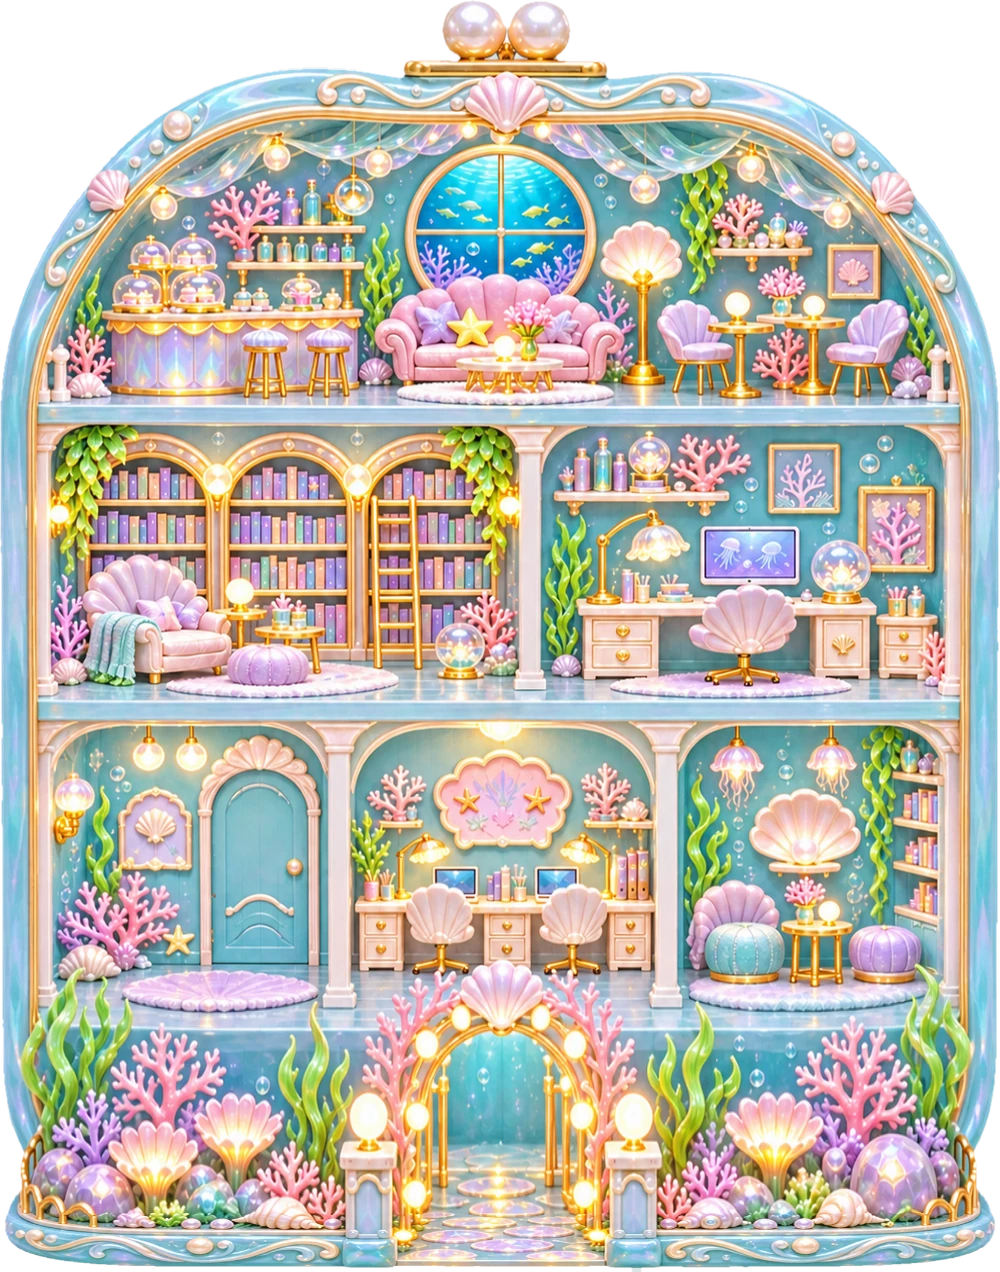
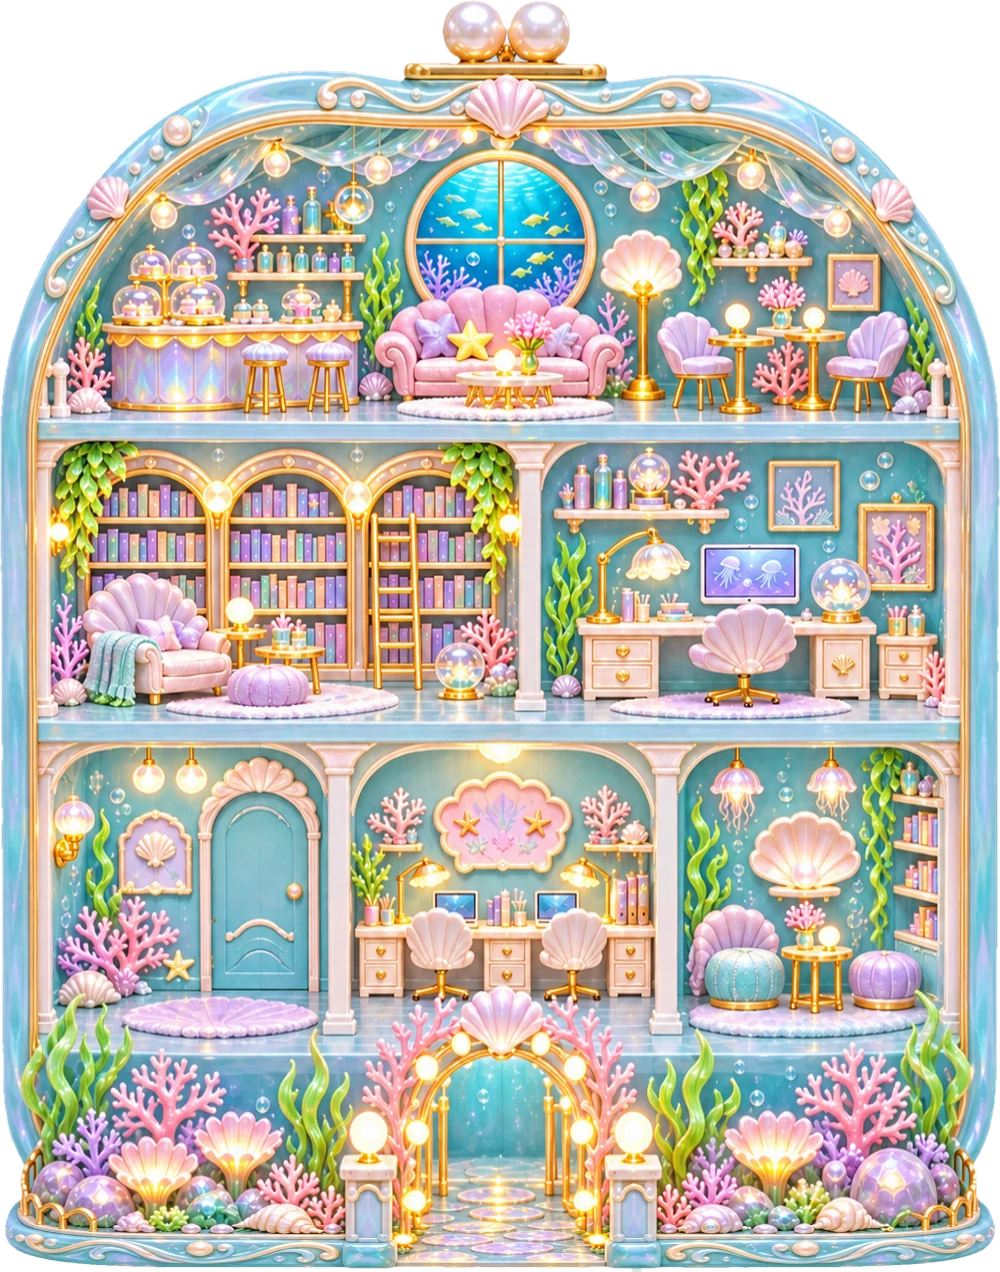
나무·바다 하우스: 카펫 높이를 기본 하우스 기준으로 층마다 다시 맞춤
Claude-Session: https://claude.ai/code/session_011wWXPaiuu8PZPFdYFKdKKY

diff --git a/tools/process_assets.py b/tools/process_assets.py
@@ -154,12 +154,32 @@ def align_floors(img, shifts, out_h):
     return Image.fromarray(np.clip(out, 0, 255).astype(np.uint8), 'RGBA')
 
 
-# 라이트 하우스 바꿔 입기(나무·바다): 층 바닥 높이를 기본 라이트 하우스(바닥 y 408/690/1002/1212, 높이 1272)와 똑같이 맞춰요
-# (출력 y, 원본 y를 1000폭 기준으로 잰 값의 차이) — 그림마다 층 높이가 달라서 따로 둬요
-SKIN_FLOOR_SHIFT = {
+# 라이트 하우스 바꿔 입기(나무·바다): 카펫(아바타가 서는 바닥)의 아래쪽 끝이 기본 하우스와 같은 높이에 오게 늘이고 줄여요.
+# 기본 하우스의 카펫 아래 끝: 다락 418 · 2층 718 · 1층 1037 (1000폭, 높이 1272 기준)
+_RUG_Y = (418, 718, 1037)
+# 처음 맞춤(층 바닥 높이)과, 그 결과에서 카펫 끝을 기본 하우스에 맞추려고 더 움직여야 하는 만큼 (출력에서 결과 그림 y까지의 차이)
+_OLD_SHIFT = {
     'wood': [(0, 0), (408, 9), (690, 14), (1002, -17), (1212, -62), (1272, -22)],
     'sea': [(0, 0), (408, -11), (690, -8), (1002, -17), (1212, -62), (1272, -22)],
 }
+_RUG_MOVE = {'wood': (-21, -28, -17), 'sea': (-16, -21, -27)}
+
+
+def _skin_shift(key):
+    old = _OLD_SHIFT[key]
+    oy = [p[0] for p in old]; os_ = [p[1] for p in old]
+    pts = [(0, 0)] + list(zip(_RUG_Y, _RUG_MOVE[key])) + [(1272, 0)]
+    xs = [p[0] for p in pts]; ds = [p[1] for p in pts]
+    out = []
+    for y in range(0, 1273, 24):
+        cur = y + float(np.interp(y, xs, ds))
+        out.append((y, round(cur + float(np.interp(cur, oy, os_)) - y, 1)))
+    if out[-1][0] != 1272:
+        out.append((1272, out[-1][1]))
+    return out
+
+
+SKIN_FLOOR_SHIFT = {k: _skin_shift(k) for k in ('wood', 'sea')}
 
 
 def skin_house(src, key):
